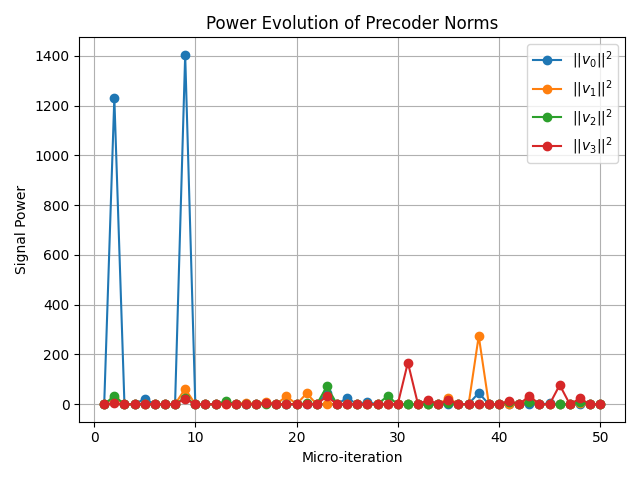
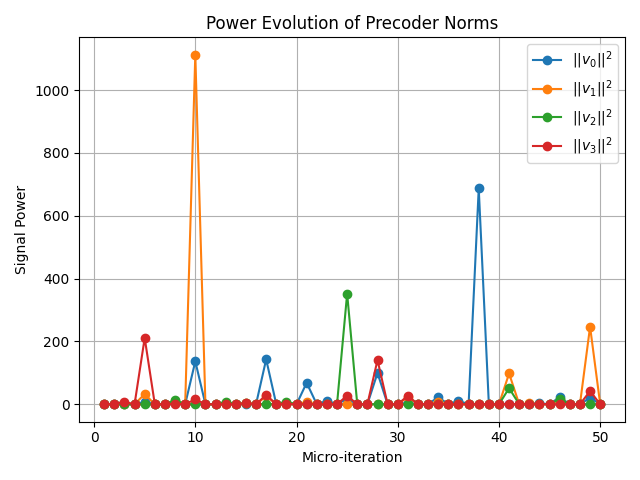
fixed w v loop

diff --git a/update_functions.py b/update_functions.py
@@ -314,7 +314,7 @@ def compute_gamma_k(A, B, constants, k):
     v_k = V[k]  # (Nr x 1)
 
     # Step 1: Compute 2*Re(w_k^H H_k v_k)
-    term1 = 2 * np.real(w_k.conj().T @ H_k @ v_k)
+    term1 = 2 * np.real(w_k.conj().T @ H_k @ v_k).item()
 
     # Step 2: Compute w_k^H (sigma^2 I + interference) w_k
     interference = sigma2 * np.eye(Nr, dtype=complex)
@@ -353,28 +353,29 @@ def update_B_loop(A, B, constants, outer_tol=1e-10, max_outer_iter=10000, inner_
     for outer_iter in range(max_outer_iter):
         # === Micro inner loop: update (w, v) alternately ===
         prev_micro_lagrangian = None
-        for micro_iter in range(max_inner_iter):
-            # Update w
-            for k in range(K):
-                w_k = update_w(A, B, constants, k)
-                B.W[k] = w_k  # Store updated w_k
+        # for micro_iter in range(max_inner_iter):
+        #     # Update w
+        #     for k in range(K):
+        #         w_k = update_w(A, B, constants, k)
+        #         B.W[k] = w_k  # Store updated w_k
 
-            # Update v
-            for n in range(K):
-                B.V[n] = update_v(A, B, constants, n)
+        #     # Update v
+        #     for n in range(K):
+        #         B.V[n] = update_v(A, B, constants, n)
 
-            # Compute Lagrangian after w,v update
-            current_micro_lagrangian = compute_lagrangian_B(A, B, constants)
-            print(f"    [Micro iter {micro_iter+1}] Micro-lagrangian = {current_micro_lagrangian:.6e}")
+        #     # Compute Lagrangian after w,v update
+        #     current_micro_lagrangian = compute_lagrangian_B(A, B, constants)
+        #     print(f"    [Micro iter {micro_iter+1}] Micro-lagrangian = {current_micro_lagrangian:.6e}")
 
-            if prev_micro_lagrangian is not None:
-                delta_micro = abs(current_micro_lagrangian - prev_micro_lagrangian)
-                print(f"        Micro Lagrangian change = {delta_micro:.6e}")
-                if delta_micro < inner_tol:
-                    print(f"    ✅ Micro-inner loop converged at iteration {micro_iter+1}.")
-                    break
+        #     if prev_micro_lagrangian is not None:
+        #         delta_micro = abs(current_micro_lagrangian - prev_micro_lagrangian)
+        #         print(f"        Micro Lagrangian change = {delta_micro:.6e}")
+        #         if delta_micro < inner_tol:
+        #             print(f"    ✅ Micro-inner loop converged at iteration {micro_iter+1}.")
+        #             break
 
-            prev_micro_lagrangian = current_micro_lagrangian
+        #     prev_micro_lagrangian = current_micro_lagrangian
+        B, _, _ = inner_update_w_v(A, B, constants, max_iter=max_inner_iter, tol=inner_tol)
 
         # === Step 2: Update lagrangian multipliers ===
         B = update_lagrangian_variables(A, B, constants)
@@ -527,3 +528,58 @@ def assert_finite(x, label="variable"):
         print(x)
         raise ValueError(f"{label} became NaN or inf")
 
+def inner_update_w_v(A, B, constants, max_iter=50000, tol=1e-5):
+    """
+    Alternating updates of (w_k, v_k) for all users until convergence of all gamma_k.
+
+    Args:
+        A: VariablesA object
+        B: VariablesB object
+        constants: GlobalConstants object
+        max_iter: maximum number of outer iterations
+        tol: stopping threshold for convergence (applied to total change in gamma)
+
+    Returns:
+        B: updated VariablesB object (with new W and V)
+        gamma_history: list of gamma_k vectors per iteration, shape = (iter, K)
+    """
+    K = constants.K
+    gamma_history = []
+    prev_gamma = np.zeros(K)
+    signal_log = []
+
+    for i in range(max_iter):
+        current_gamma = np.zeros(K)
+        current_signal = np.zeros(K)
+
+        w_k_arr = []
+        v_k_arr = []
+        for k in range(K):
+            w_k = update_w(A, B, constants, k)
+            w_k_arr.append(w_k)
+        B.W = w_k_arr
+        for k in range(K):
+            v_k = update_v(A, B, constants, k)
+            v_k_arr.append(v_k)
+        B.V = v_k_arr
+        ##signal monitor
+        for k in range(K):
+            H_hat_k = constants.H_HAT[k]
+            delta_k = A.delta[k].reshape(constants.NR, constants.NT)
+            H_k = H_hat_k + delta_k
+            signal_term = np.real(np.vdot(w_k, H_k @ v_k)).item()
+            
+            gamma_k = compute_gamma_k(A, B, constants, k)
+            current_gamma[k] = gamma_k.real if np.iscomplexobj(gamma_k) else gamma_k
+            current_signal[k] = signal_term
+        B.V = v_k_arr
+
+        gamma_history.append(current_gamma.copy())
+        signal_log.append(current_signal.copy())
+        delta = np.linalg.norm(current_gamma - prev_gamma)
+
+        if delta < tol:
+            break
+        prev_gamma = current_gamma
+
+    return B, gamma_history, signal_log

diff --git a/test_inner_update_w_v.py b/test_inner_update_w_v.py
@@ -1,0 +1,108 @@
+import numpy as np
+from variables import GlobalConstants, VariablesA, VariablesB, initialize_t
+from update_functions import compute_gamma_k, update_w, update_v
+import matplotlib.pyplot as plt
+
+
+
+def inner_update_w_v(A, B, constants, max_iter=50000, tol=1e-5):
+    """
+    Alternating updates of (w_k, v_k) for all users until convergence of all gamma_k.
+
+    Args:
+        A: VariablesA object
+        B: VariablesB object
+        constants: GlobalConstants object
+        max_iter: maximum number of outer iterations
+        tol: stopping threshold for convergence (applied to total change in gamma)
+
+    Returns:
+        B: updated VariablesB object (with new W and V)
+        gamma_history: list of gamma_k vectors per iteration, shape = (iter, K)
+    """
+    K = constants.K
+    gamma_history = []
+    prev_gamma = np.zeros(K)
+    signal_log = []
+
+    for i in range(max_iter):
+        current_gamma = np.zeros(K)
+        current_signal = np.zeros(K)
+
+        w_k_arr = []
+        v_k_arr = []
+        for k in range(K):
+            w_k = update_w(A, B, constants, k)
+            w_k_arr.append(w_k)
+        B.W = w_k_arr
+        for k in range(K):
+            v_k = update_v(A, B, constants, k)
+            v_k_arr.append(v_k)
+        B.V = v_k_arr
+        ##signal monitor
+        for k in range(K):
+            H_hat_k = constants.H_HAT[k]
+            delta_k = A.delta[k].reshape(constants.NR, constants.NT)
+            H_k = H_hat_k + delta_k
+            signal_term = np.real(np.vdot(w_k, H_k @ v_k)).item()
+            
+            gamma_k = compute_gamma_k(A, B, constants, k)
+            current_gamma[k] = gamma_k.real if np.iscomplexobj(gamma_k) else gamma_k
+            current_signal[k] = signal_term
+        B.V = v_k_arr
+
+        gamma_history.append(current_gamma.copy())
+        signal_log.append(current_signal.copy())
+        delta = np.linalg.norm(current_gamma - prev_gamma)
+
+        if delta < tol:
+            break
+        prev_gamma = current_gamma
+
+    return B, gamma_history, signal_log
+
+def test_inner_update_w_v_loop():
+    # === Initialization ===
+    constants = GlobalConstants(Nt=16, Nr=2, K=2, Pt=16)    
+    A = VariablesA(constants)
+    B = VariablesB(constants)
+    B = initialize_t(A, B, constants)
+
+    # === Run inner update for all users ===
+    B, gamma_history, signal_log = inner_update_w_v(A, B, constants, max_iter=10000, tol=1e-5)
+    gamma_history = np.array(gamma_history)  # shape: (iterations, K)
+    signal_log= np.array(signal_log)  # shape: (iterations, K)
+
+    print(f"✅ Finished in {gamma_history.shape[0]} iterations")
+    
+    # === Final gamma values ===
+    for k in range(constants.K):
+        print(f"[Final] γ_k[{k}] = {gamma_history[-1, k]:.4e}, w_k norm = {np.linalg.norm(B.W[k]):.4e}, v_k norm = {np.linalg.norm(B.V[k]):.4e}")
+
+    # === Plotting gamma convergence ===
+    for k in range(constants.K):
+        plt.plot(gamma_history[:, k], marker='o', label=f'γ_k[{k}]')
+
+    plt.xlabel("Iteration")
+    plt.ylabel("γ_k value")
+    plt.title("Convergence of γ_k for all users")
+    plt.grid(True)
+    plt.legend()
+    plt.tight_layout()
+    plt.savefig("gamma_convergence.png")
+
+    plt.figure()
+
+    for k in range(constants.K):
+        plt.plot(signal_log[:, k], marker='o', label=f'user{k}')
+
+    plt.xlabel("Iteration")
+    plt.ylabel("$\Re \{\mathbf{w}_k^H\mathbf{H}_k \mathbf{v}_k\}$")
+    plt.title("Signal value for all users")
+    plt.grid(True)
+    plt.legend()
+    plt.tight_layout()
+    plt.savefig("signal_term.png")
+
+if __name__ == "__main__":
+    test_inner_update_w_v_loop()

diff --git a/test_update_B_loop.py b/test_update_B_loop.py
@@ -12,7 +12,7 @@ def test_update_B_loop():
     B = initialize_t(A, B, constants)
     # === Now test B inner loop
     print("=== Starting Algorithm 2 (B update) ===")
-    B, lagrangian_B_trajectory = update_B_loop(A, B, constants)
+    B, _, _ = update_B_loop(A, B, constants)
 
     print("=== Finished Algorithm 2 ===")
     print(f"Final outer Lagrangian: {lagrangian_B_trajectory[-1]:.6e}")
